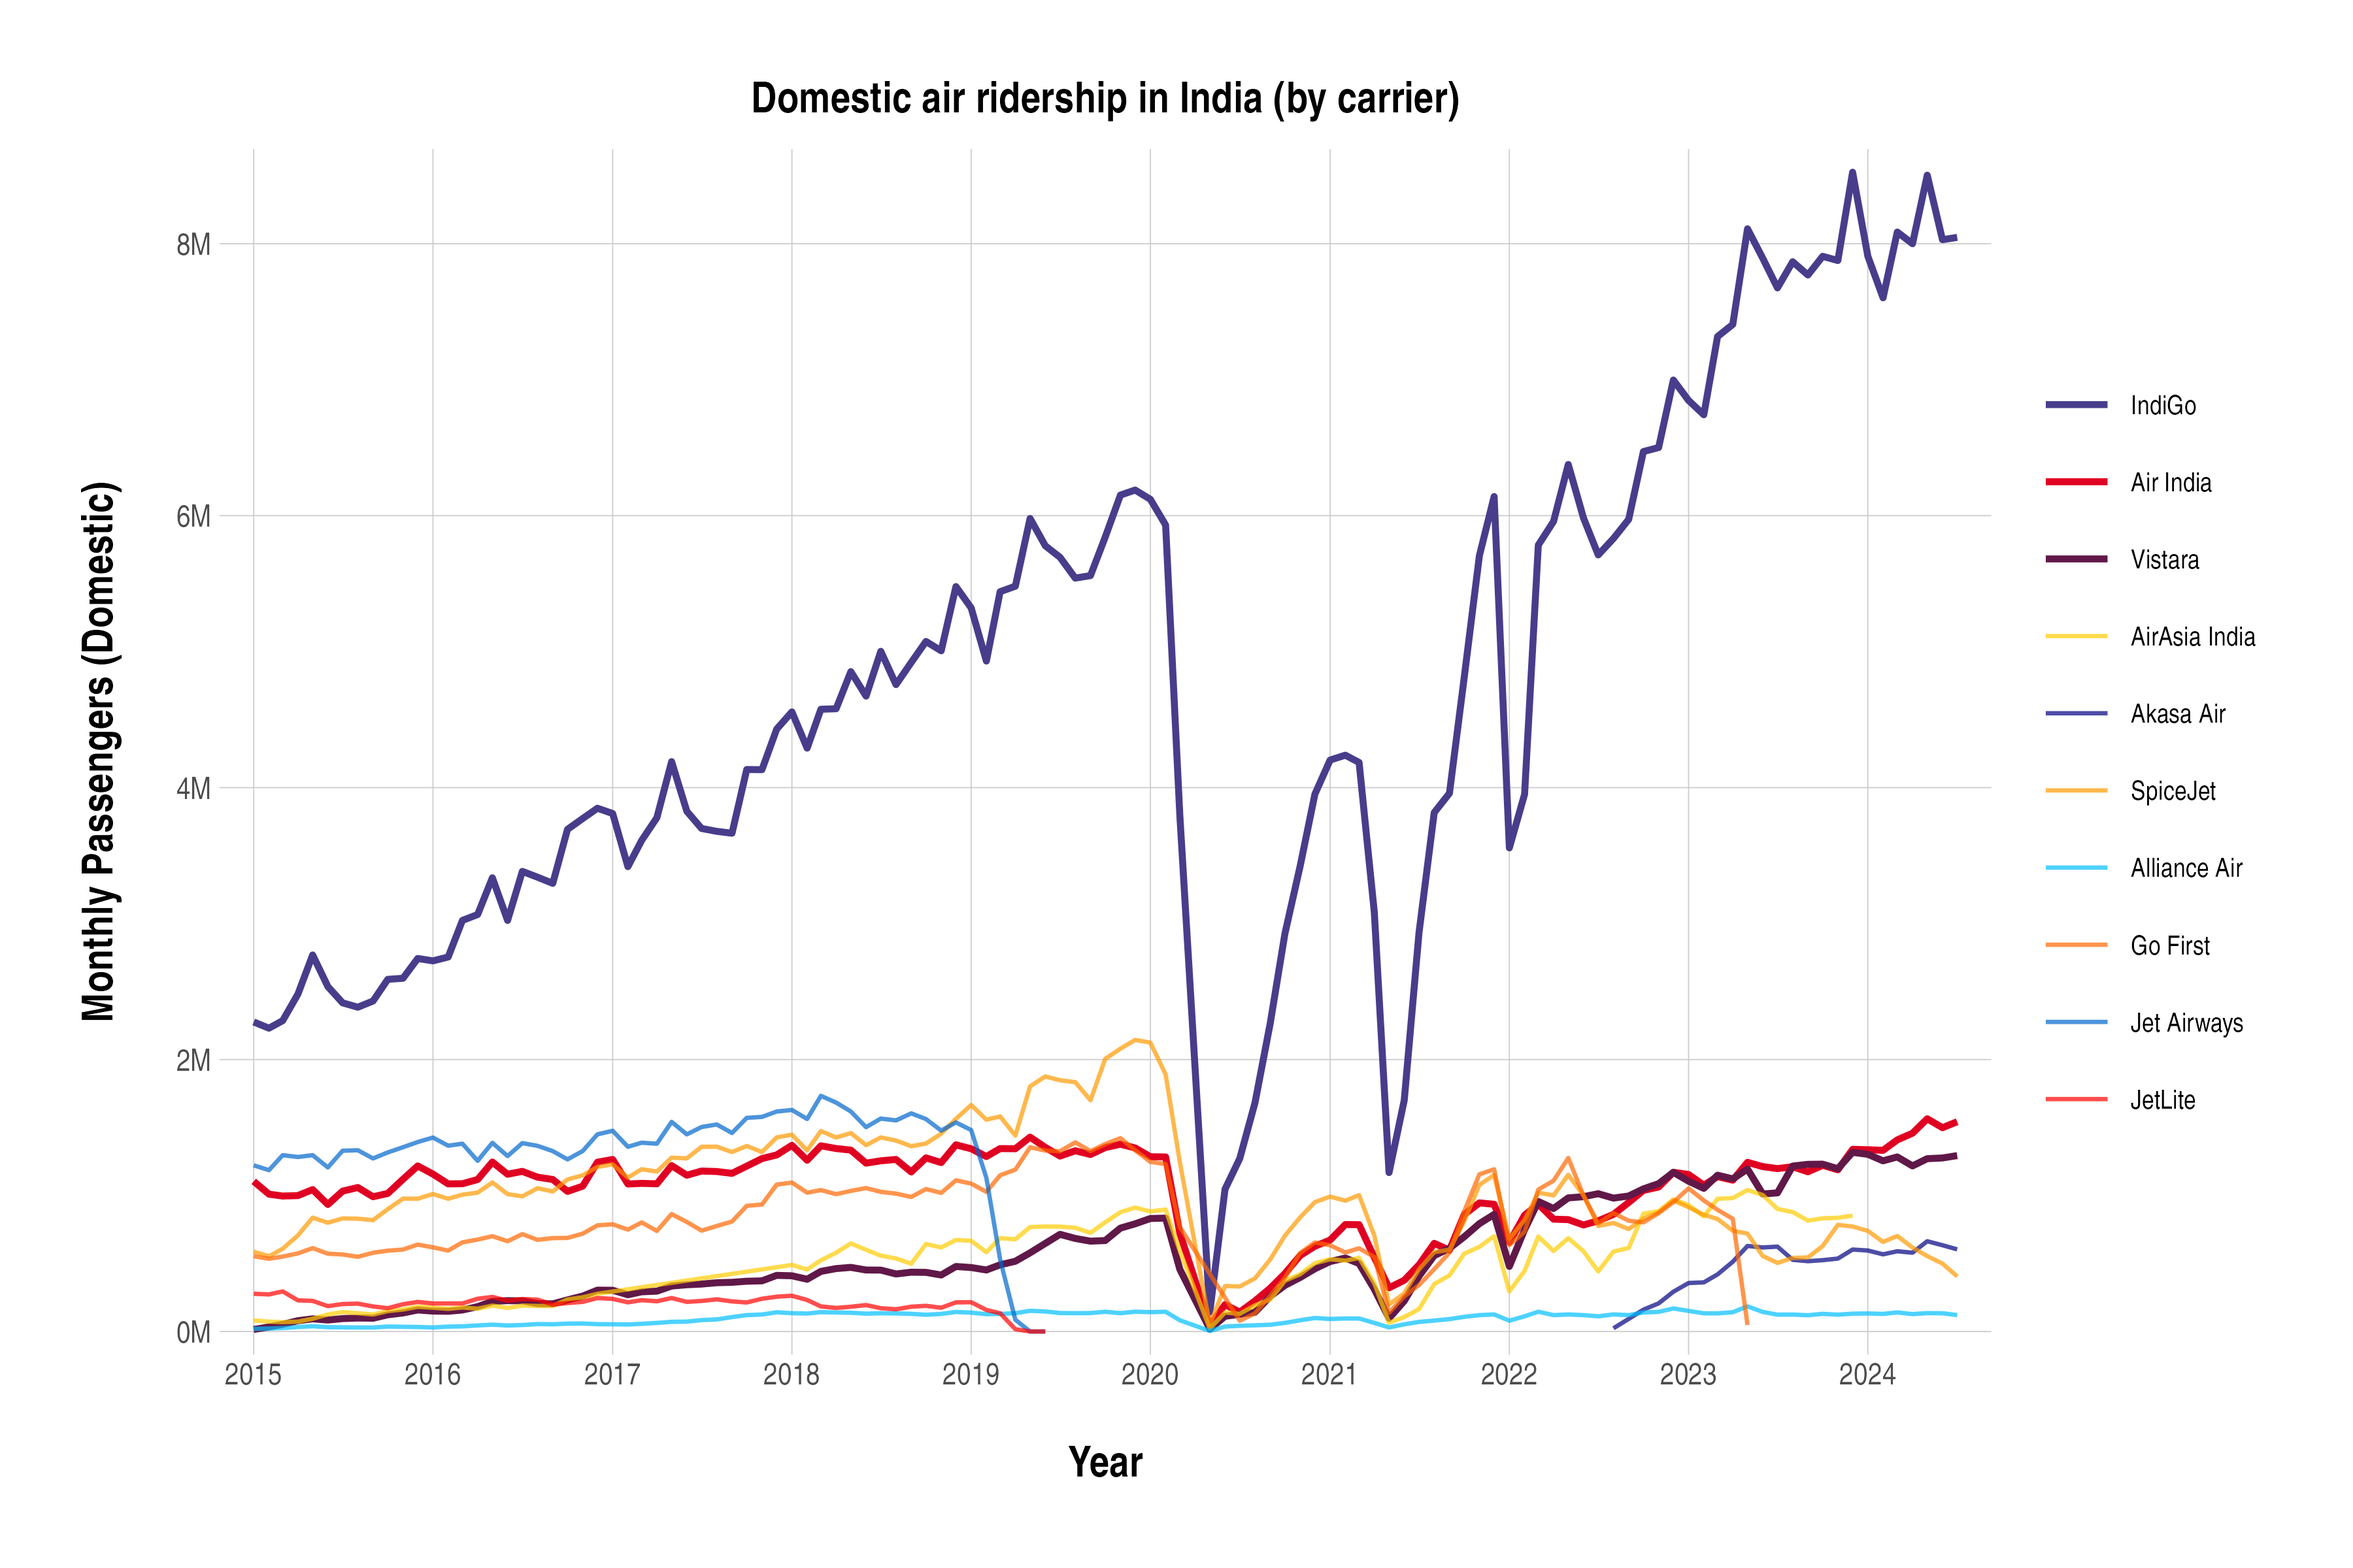
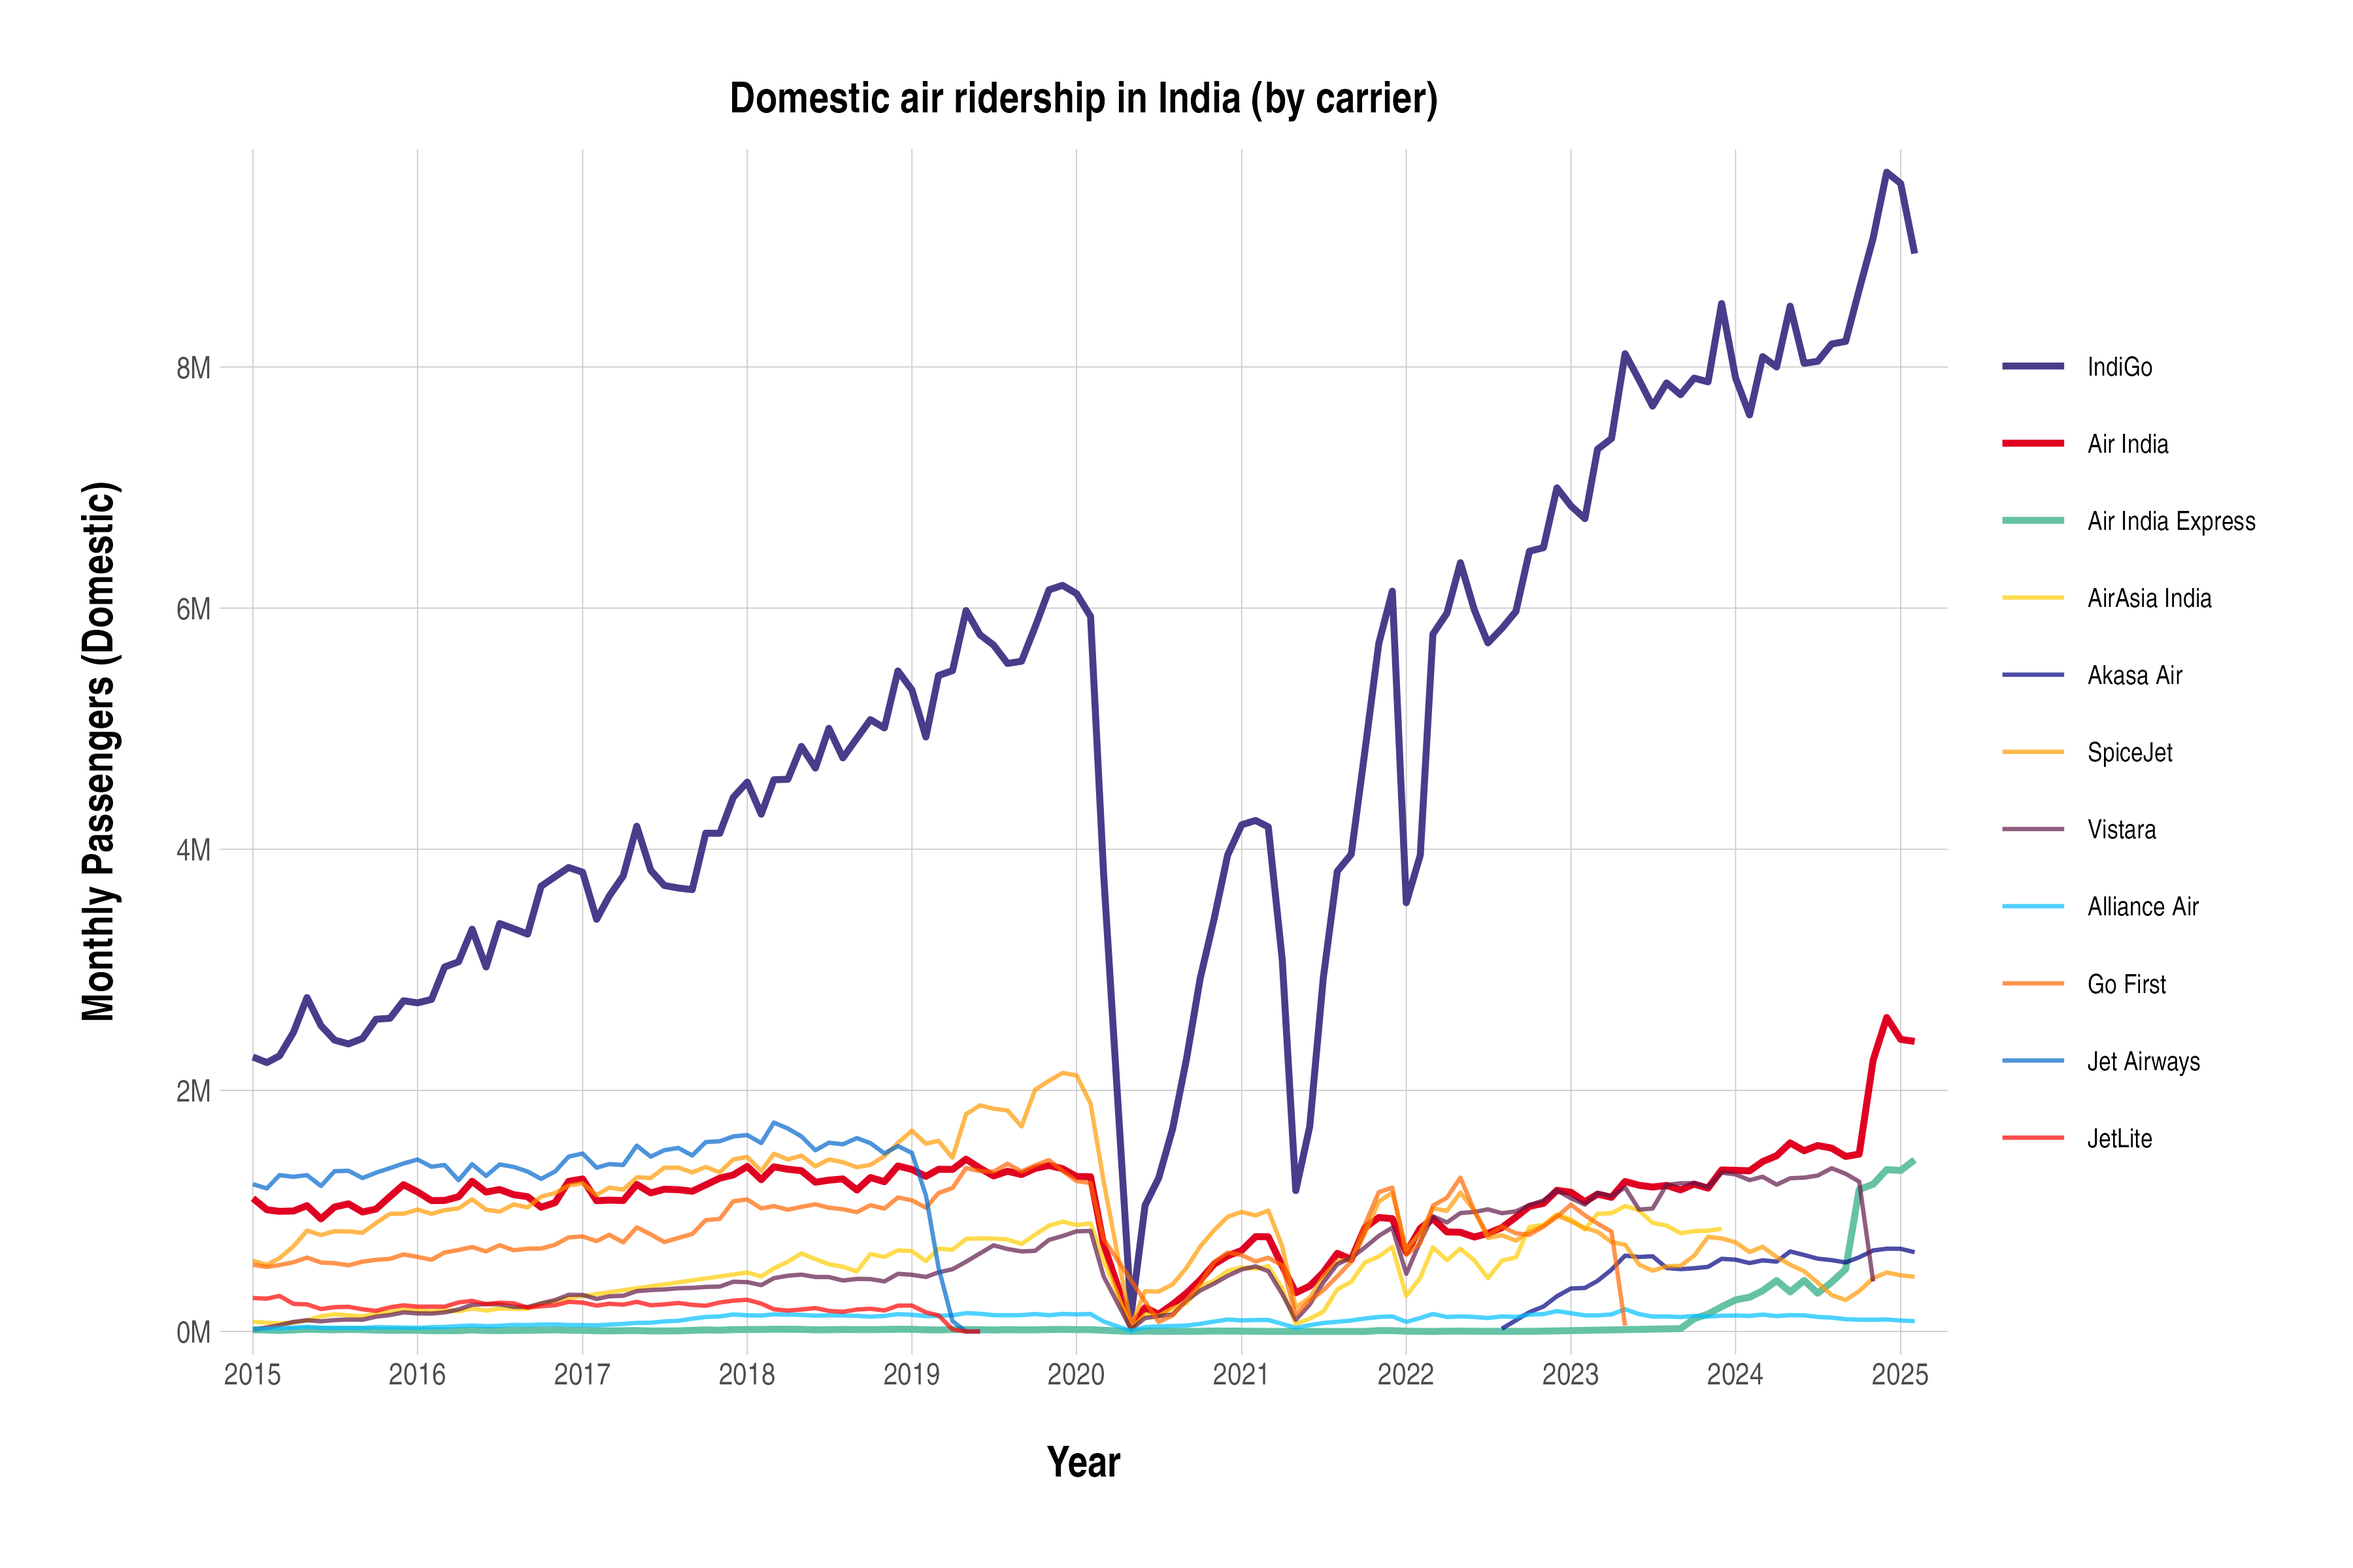
Update docs and visualizations

diff --git a/README.md b/README.md
@@ -43,7 +43,7 @@ Data: [daily.csv](aggregated/daily.csv?raw=1)
 - Sourced from [Ministry of Civil Aviation](https://www.civilaviation.gov.in/)
     - Daily reports are fetched from historical site snapshots available on [Wayback Machine](https://archive.org/)
 - Domestic, international, cargo, on time performance, passenger load factor, grievances and more data points reported on the Ministry of Civil Aviation site
-- Mid-2022 to 2024
+- Mid-2022 to 2025
     - Report update frequency on the Ministry of Civil Aviation is irregular, and not daily. Many days in between the start and end date have no data points.
 
 #### Monthly Domestic City-wise
@@ -52,7 +52,7 @@ Data: [domestic/city.csv](aggregated/domestic/city.csv?raw=1)
 
 - Sourced from the Monthly Statistics (Domestic Air Transport) page in the [DGCA](https://www.dgca.gov.in/) site
 - Monthly city-pair wise passenger, freight and mail traffic
-- Mid-2015 to 2024
+- Mid-2015 to 2025
 
 #### Monthly Domestic Carrier-wise
 
@@ -60,7 +60,7 @@ Data: [domestic/carrier.csv](aggregated/domestic/carrier.csv?raw=1)
 
 - Sourced from the Monthly Statistics (Domestic Air Transport) page in the [DGCA](https://www.dgca.gov.in/) site
 - Monthly carrier-pair wise passenger, freight and mail traffic
-- Mid-2015 to 2024
+- Mid-2015 to 2025
 
 #### Quarterly International City-wise
 
@@ -68,7 +68,7 @@ Data: [international/city.csv](aggregated/international/city.csv?raw=1)
 
 - Sourced from the Table 4 reports under the Quarterly Statistics (International Air Transport) page in the [DGCA](https://www.dgca.gov.in/) site
 - Quarterly city-pair wise passenger and freight traffic
-- 2015 to 2024
+- 2015 to 2025
 
 #### Quarterly International Country-wise
 
@@ -76,7 +76,7 @@ Data: [international/country.csv](aggregated/international/country.csv?raw=1)
 
 - Sourced from the Table 3 reports under the Quarterly Statistics (International Air Transport) page in the [DGCA](https://www.dgca.gov.in/) site
 - Quarterly country-pair wise passenger and freight traffic
-- 2015 to 2024
+- 2015 to 2025
 
 #### Monthly International Carrier-wise
 
@@ -84,7 +84,7 @@ Data: [international/carrier.csv](aggregated/international/carrier.csv?raw=1)
 
 - Sourced from [DGCA](https://www.dgca.gov.in/)
 - Monthly carrier wise passenger and freight traffic. M1, M2 and M3 correspond to the 1st, 2nd and 3rd month of the quarter.
-- 2015 to 2024
+- 2015 to 2025
 
 ## Scripts
 
